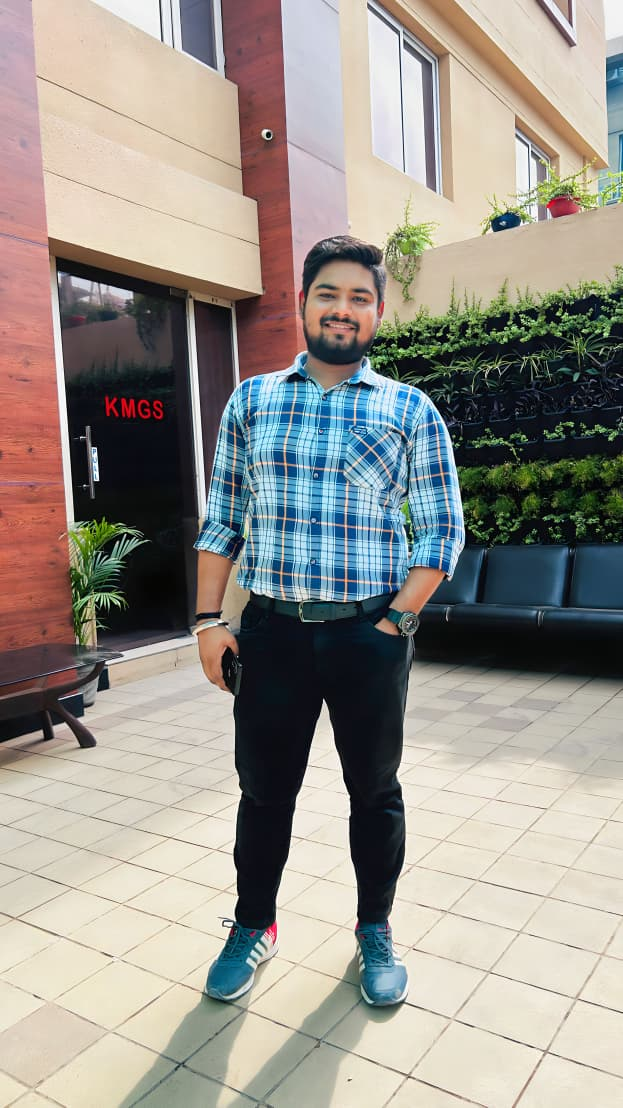
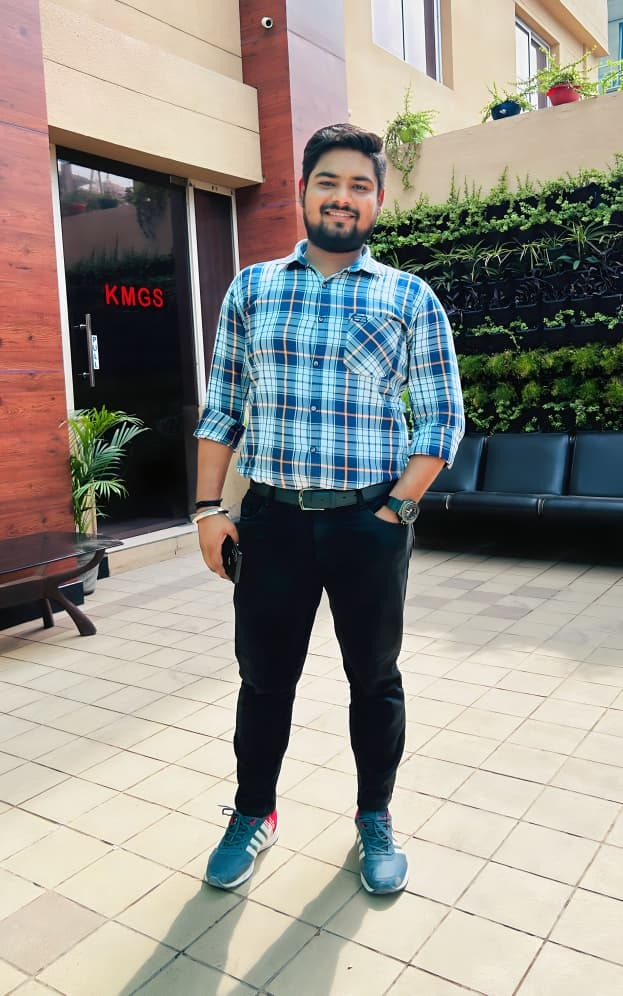
feat: add GalleryCard component and supporting assets for image display

diff --git a/src/components/gallery/GalleryCard.jsx b/src/components/gallery/GalleryCard.jsx
@@ -4,7 +4,7 @@ function GalleryCard({ title, image }) {
       className="
         group
         relative
-        h-[450px]
+        h-[370px]
         overflow-hidden
         rounded-3xl
         border
